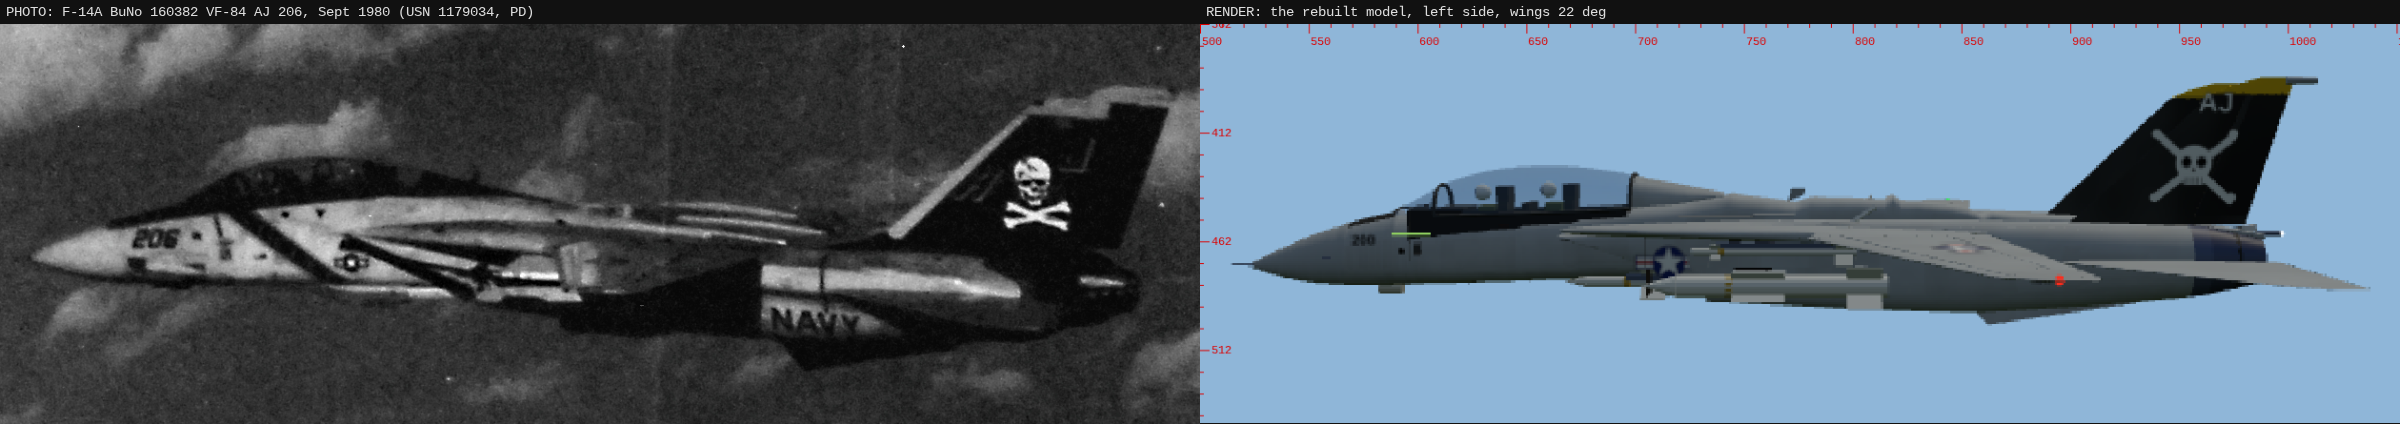
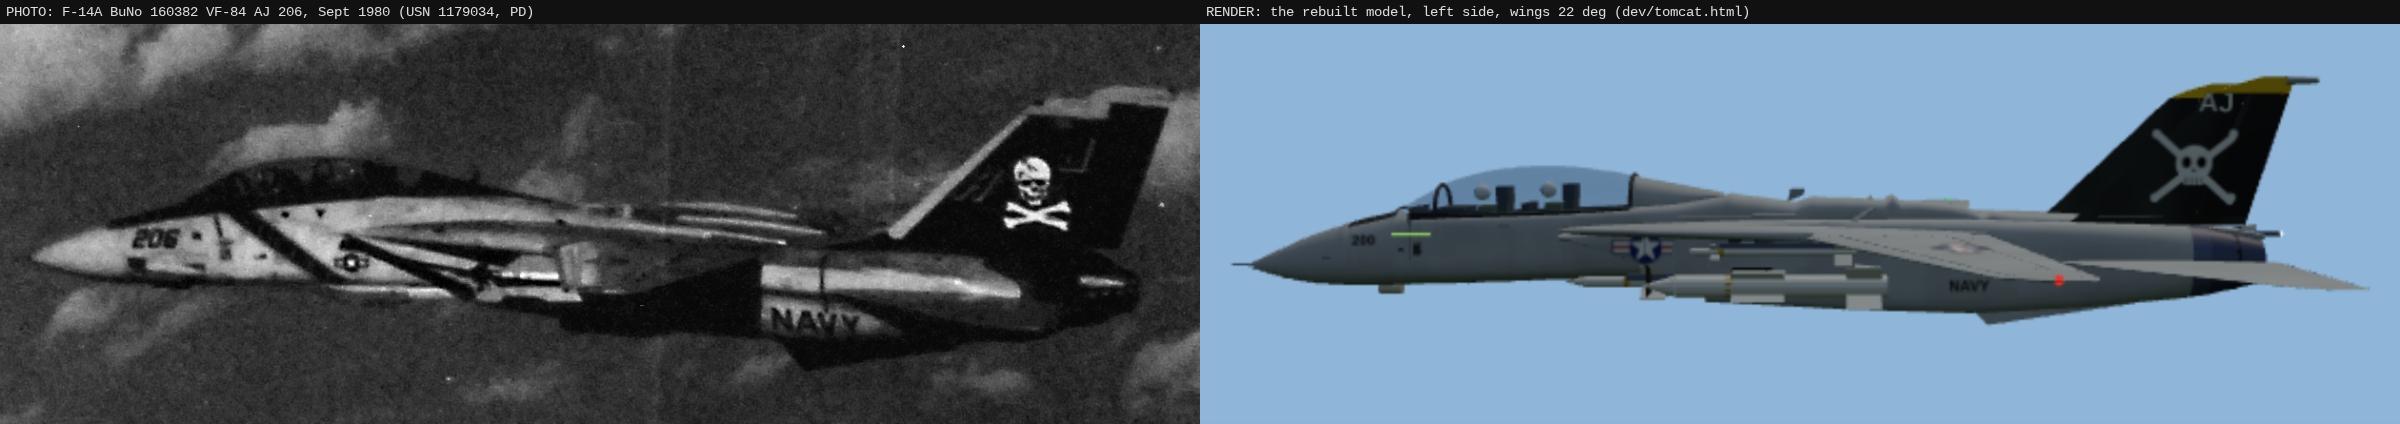
look-tomcat: findings (glitch table, sources, dimension and FS/WL/BL configuration tables, fit, LODs); markings placed per USN 1179034 (insignia on the intake, NAVY on the nacelle)

diff --git a/game/js/units/air/tomcatmodel.js b/game/js/units/air/tomcatmodel.js
@@ -222,8 +222,8 @@ export function buildTomcatModel(side = 1, { modex = 201 } = {}) {
   // ---- markings (USN 1179034): modex on the nose, the national insignia on the intake under the canopy, NAVY on the nacelle aft
   for (const s of [-1, 1]) {
     const zM = -8.9, d = decal(noseNumber(modex), 0.66, 0.33, g, 'modex'); d.position.set(s * (fuseW(zM) + 0.012), -0.42, zM); d.rotation.y = s * (Math.PI / 2 - 0.08);
-    const zI = -3.2, N = nacelleAt(zI), st = decal(starTex(), 1.25, 0.62, g, 'insignia'); st.position.set(s * (N.cx + N.a + 0.012), (N.top + N.bot) / 2 + 0.05, zI); st.rotation.y = s * Math.PI / 2;
-    const zN = 3.3, N2 = nacelleAt(zN), nv = decal(stencil('navy', 'NAVY', 40), 1.1, 0.28, g, 'navy'); nv.position.set(s * (N2.cx + N2.a + 0.012), N2.bot + 0.55, zN); nv.rotation.y = s * Math.PI / 2;
+    const zI = -3.6, N = nacelleAt(zI), st = decal(starTex(), 1.25, 0.62, g, 'insignia'); st.position.set(s * (N.cx + N.a + 0.012), -0.45, zI); st.rotation.y = s * Math.PI / 2;
+    const zN = 2.0, N2 = nacelleAt(zN), nv = decal(stencil('navy', 'NAVY', 44), 1.5, 0.38, g, 'navy'); nv.position.set(s * (N2.cx + N2.a + 0.012), N2.bot + 0.5, zN); nv.rotation.y = s * Math.PI / 2;
     const zR = -6.3, rs = decal(stencil('rescue', 'RESCUE', 22, '#c8361c'), 0.5, 0.12, g, 'rescue'); rs.position.set(s * (fuseW(zR) + 0.01), sill(zR) - 0.25, zR); rs.rotation.y = s * Math.PI / 2;
     det(mesh(boxG(0.45, 0.004, 1.3, s * 1.45, GLOVE.y + GLOVE.t(1.45) / 2 + 0.002, -2.4), walkM, g, 'walkway'));
   }

diff --git a/docs/ngc1980/findings/look-tomcat.md b/docs/ngc1980/findings/look-tomcat.md
@@ -1,0 +1,177 @@
+# look-tomcat: the F-14A rebuilt from the drawings (branch ngc/look-tomcat, off ngc/shader-library)
+
+User: "can we focus on making the model actually authentic? and not just some look alike?", "use those blueprints to
+a T", and earlier "the tomcat jet seems a bit glitchy". Process: the milsim-blueprint skill (trace, loft, fit, photo
+side-by-side, configuration table).
+
+## 1. Glitch first (reproduced before changing anything)
+
+Before shots: `tools/runs/2026-10-28_20-05-47-tlook-before/` (scene `tools/scenes/tomcatlook.mjs`: deck orbit, gear,
+both cockpits, the shot, climb-out, 1200 m, 3000 m swept). Legacy model kept for comparison: `dev/tomcat.html?legacy=1`.
+
+| # | Finding | Evidence | Cause | Action |
+|---|---|---|---|---|
+| G1 | A dark 19.5 m SQUARE on the ALBATROSS deck under the parked / launching Tomcat, on top of its real shadow | tlook-before `04-deck-above-30m.png` (square edges round the jet) | `tomcatplay.js` still drew its flat `MeshBasicMaterial` blob "shadow" plane (opacity 0.35) although RenderKit's sun shadows now draw the real one | the blob only when RenderKit `light` is off (`blob = !RK.on('light')`); after: tlook-after-deck `04` has only the real shadow. (The Hornet's `jetplay.js` has the same blob: not touched here, reported.) |
+| G2 | Wing sweep 20 -> 68: the outer panels' roots slid flat over the deck / glove, flickering | `before-after-sw68top.png` (left), dev `?legacy=1&s={"sweep":45}` | old wing slab at y 0.08 inside a deck slab at y 0.08 +-0.11: faces ~1 cm apart (z-fighting), the root TE corner swept 2.4 m inboard across the deck | rebuilt: the panel root (t 0.33 m) now swings inside the glove (t 0.42-0.50 m) and the fuselage; no coplanar faces |
+| G3 | Shimmer along the nacelles at range | code: `nacelle` cylZ(0.68) and `nacelleBelly` cylZ(0.685) offset 5 cm, scaled 0.98 | two coincident shells | one nacelle loft with material groups (`tomcatgeo.nacelleGeo`) |
+| G4 | Intakes hollow from the side, a lip hoop floating in front | `before-after-intake.png` | the raked ExtrudeGeometry's side walls collapsed by the vertex edit; the lip was a separate tube | closed raked intake loft (the drawn rake), dark duct and compressor face inside |
+| G5 | Retracted main gear (new model, caught in the fit masks) poking through the glove; strut-mounted doors swinging up | fit mask side, front | stow rotation aimed up; doors on the strut | stow direction down-forward into the nacelle bay; doors on the airframe, shown only with the gear down |
+| -- | Flight model / camera | chase and cockpit shots 13-19 normal | not involved | none (no FM numbers changed) |
+
+## 2. References (docs/ngc1980/reference/f14a/SOURCES.md)
+
+All public domain (NASA NTRS "GOV_PUBLIC_USE_PERMITTED"; U.S. Navy photos):
+- NASA TP-2769 (1987) and TM-83250 (1982), Langley: the 1/12 F-14 model three-view (side, top, bottom) and the
+  dimensioned planforms of the wing, glove vane, stabilator, ventral fin, hook and fairing, vertical tails, TF30 nozzle.
+- NASA CR-163098 (1980), Northrop for Dryden: 1/72 three-view with the FRONT view (widths).
+- Photos: F-14A BuNo 160382 VF-84 AJ 206 escorting a Tu-95, Sept 1980 (USN 1179034); VF-84 intercepting an Il-38,
+  10 Mar 1980 (colour); VF-142 on the catapult, USS Eisenhower, 6 Jul 1980.
+- Third-source cross-check: the low-resolution public-domain Commons three-view (`File:Grumman_F-14_Tomcat.png`).
+- NOT available: NAVAIR 01-F14AAA-1 (F-14A NATOPS) and the -2 maintenance manuals are not publicly scanned (NASM holds
+  a paper NATOPS). So no NATOPS principal-dimensions figure, no cockpit panel figures, no access-panel diagrams.
+
+## 3. Frame and dimension table (model metres; converted once in `tomcatgeo.js` G)
+
+z = FS_full - 11.152 (FS 92.933 cm model = moment reference = sim CG); y = WL_full - 4.246 (static ground y -2.37;
+the fin tip 4.88 m above it); x = BL. Model cm x 12 = full size (span 162.885 cm = 64 ft 1.5 in; pivot BL 22.648 cm =
+107.0 in exactly).
+
+| Dimension | Value | Source |
+|---|---|---|
+| Length (radome tip to fuel-dump end) | 18.82 m | TP-2769 fig 2a 156.845 cm (CR-163098: 26.19 cm x 72 = 18.86); Jane's 62 ft 8 in (19.10 m) includes the pitot - drawings rule, both recorded |
+| Span 20 / 68 deg | 19.546 / 11.643 m | TP-2769 162.885 / 97.028 cm |
+| Wing pivot | BL 2.718, FS 10.953 m (z -0.199), chord plane y -0.19 | TM-83250 fig 3a; plane from the TP side view (wing edge-on) |
+| Reference wing | LE 20 deg, root 4.245 m at BL 0 (FS 9.234 m), tip chord 1.124 m at BL 9.773, TE kink BL 2.596, glove TE 13.25 deg | TM-83250 fig 3a |
+| Glove vane | pivot FS 6.680 / BL 1.740, 2.45 m long | fig 3b |
+| Vertical tails | root LE FS 14.931, root chord 3.886, tip chord 1.117, height 2.591, tip TE FS 18.817, tip WL 6.756 (y 2.51), cant 5 deg, NACA 65A004.5 | fig 3f; root BL 1.397 (+0.06 to the CR front view's spacing, see 6) |
+| Stabilators | root BL 2.286, root LE FS 14.642, root chord 3.775, span 2.699 (semi 4.985), pivot axis 1.978 aft of the root LE, swept 9.49 deg, anhedral 3.5 deg, WL 3.581 | fig 3c |
+| Ventral fins | FS 12.98-16.47, depth 0.735, WL 2.892 | fig 3d |
+| Hook | pivot FS 15.227 / WL 3.505, 3.444 m, stowed 8.87 deg tip-up | fig 3e |
+| TF30 nozzle | from FS 16.980, 1.295 m long, shroud 1.282 m dia, exit 0.646-0.680 (cruise) | TP-2769 fig 4c |
+| Engine centre lines | BL 1.626 | fig 2a 13.547 cm |
+| Intake | top lip FS 5.969 m (z -5.18); side edge raked back to the lower lip at z -2.57 (y -1.10 to -1.40) | TP side view traced |
+| Height | 4.88 m | Jane's 16 ft 0 in (sets the ground under the fin tip) |
+| Wheelbase / track | 7.02 / 5.0 m | Jane's (the sim's GEAR points, unchanged) |
+
+## 4. Shape: trace, loft, fit
+
+- Trace: `tools/blueprint/trace3view.mjs` (the skill's, plus `top.half` and `draw` seals) with
+  `tools/blueprint/f14a/side-top.config.json` and `front.config.json`; merged by `merge.mjs` into
+  `game/js/units/air/f14trace.json/.js`. Masked: label leaders, the tunnel model's under-nose fixtures, the vane.
+- Loft (`tomcatgeo.js`, `loftkit.js` = the skill's loft.mjs): fuselage 150 x 48 superellipse stations with analytic
+  normals and arc-length UVs, canopy loft (glass from the windscreen bow FS... z -7.62 to -4.05), nacelles with the
+  drawn rake, gloves / deck / beaver tail / wings / tails / ventrals as NACA-section airfoil slabs on the drawn
+  planforms; wing slats / box / flaps as chordwise strips (no coincident faces).
+- Fit (`node tools/blueprint/f14a/fitall.mjs`, masks from `dev/tomcat.html?ref=...&mask=1`):
+
+| View | IoU | max gap | note |
+|---|---|---|---|
+| side | **0.988** | 0.19 m (1.0%) PASS | |
+| top (68 deg) | **0.983** | 0.32 m (1.7%) | residual at the 68 deg wingtip: the drawing's tip is ~0.3 m forward of a rigid rotation of its own fig 3a planform about the labelled pivot (the model follows the labels) |
+| front | **0.961** | 0.13 m (0.7%) | by region: canopy 0.912, nacelles+tunnel **0.977**, wing plane **0.975**; fin tips x 1.68 (CR 1.69/1.75); stabilator semi-span 4.985 (TM label; CR draws 5.3) |
+
+  Front canopy: CR-163098 puts the canopy top 0.13 m lower above the wing plane than TP-2769 (0.92); the Commons
+  three-view (third source, +-0.08 m at its resolution) gives 0.86, so TP stays the master for heights and the CR
+  canopy rows are registered to it (merge.mjs); CR gives the widths. The remaining canopy residual (0.07-0.08 m at the
+  sill and near the top) is the CR drawing's flatter bubble.
+- Overlays: `evidence/look-tomcat/ref_side.png`, `ref_top.png`, `ref_front.png`; numbers `fit.json`.
+- Photo side-by-side: `evidence/look-tomcat/proportions.png` (BuNo 160382, Sept 1980 vs the render, left side). Canopy
+  length / overall 0.29 (photo) vs 0.31; fin height / length 0.127 vs 0.134 (within 10%). The photo's wings are at
+  ~35-45 deg and the perspective is slightly from below.
+- Markings: checked from outside on both sides and below: skull, AJ, modex, NAVY, star read correctly (not mirrored).
+
+## 5. One real configuration: F-14A-95-GR BuNo 160382, VF-84 "Jolly Rogers", CVW-8, USS Nimitz, September 1980
+
+What it had in 1980 (INFERRED items marked):
+- Overall gloss light gull grey FS 16440 (the Navy dropped the white undersides from 1977; INFERRED for this airframe
+  from the 1980 photos' even tone). Radome painted grey; black anti-glare panel ahead of the windscreen.
+- VF-84: black fins and rudders, white skull and crossbones, yellow fin caps (colour photo, Mar 1980), AJ on the fin,
+  modex 2xx on the nose (206 on 160382; the player's jet is the CAG's 200, the AI 201-212), NAVY large on the nacelle
+  under the stabilator, national insignia on the intake side, on the upper left and lower right wing, NAVY under the
+  left wing.
+- Glove vanes fitted and working (deactivated fleet-wide only in the mid-1980s).
+- No TCS (AXX-1) chin pod (fitted from 1983 on); a small chin fairing (ALQ-100 antenna) - INFERRED, the photos are
+  too small to confirm.
+- TF30-P-412A, cruise / AB nozzles (TP-2769 fig 4c); beaver tail with the fuel dump and speedbrakes.
+- Stores: AIM-54A / AIM-7F / AIM-9 on the glove pylons (1B/8B, shoulder rails 1A/8A) and the four tunnel stations.
+
+Configuration table (z = FS - 11.152; y = WL - 4.246; x = BL; metres). Status: done / partial / not done.
+
+| Item | FS (m) | WL (m) | BL (m) | Source | Status |
+|---|---|---|---|---|---|
+| Radome / pitot | 0 - 1.85 | 3.33 | 0 | TP side | done (grey, joint by material) |
+| Anti-glare panel | 1.85 - 2.75 | top | 0 | photos | done |
+| Windscreen, bow | 2.75 - 3.53 | 4.30-5.00 | | TP side trace | done (glass with RK env reflection + fresnel) |
+| Canopy (one piece, hinged aft) | 3.53 - 8.20 | to 5.17 | +-0.54 | TP side, CR front | done; opens about z -2.95 |
+| Cockpit tubs, seats, crew | 3.5 - 7.0 | | | old interior moved by COCKPIT_OFFSET | partial (see 7) |
+| M61A1 muzzle + vents (left) | 2.95 / 3.25 | 3.6-3.8 | -0.70 | photos | done |
+| Refuelling probe door (right) | 3.55 | 3.9 | +0.70 | photos | done |
+| AoA probes | 1.55 | 3.5 | +-0.47 | photos | done |
+| Chin fairing (ALQ-100) | 2.55 | 2.9 | 0 | INFERRED | done |
+| Intake lips (raked) | 5.97 top / 8.58 low | 3.98 / 2.85-3.15 | 0.87-1.61 | TP side + top | done |
+| Inlet ramp (upper wall) | 6.0 - 7.2 | 3.9 | 1.24 | photos | partial (plate) |
+| Inlet bleed doors (2 / side) | 9.99 - 10.77 | top | 0.75 - 1.33 | TP top 'Inlet bleed' | done |
+| Glove + vane | 5.97 - 13.6 | 4.08 | 0.62 - 3.21 | TP top, fig 3b | done |
+| Wing pivot | 10.953 | 4.06 | 2.718 | fig 3a | done (rotation centre) |
+| Slats, flaps, spoilers (4) | on the panel | | 3.40 - 9.35 | fig 3a chord fractions | done (spoilers flush, shown when up) |
+| Main gear, doors | 12.15 | | 2.05 / 2.5 | sim GEAR | done |
+| Nose gear, launch bar, doors | 5.15 | | 0 | sim GEAR | done |
+| UHF / TACAN blades | 9.95 / 8.15 | top / bottom | 0 | photos | done |
+| Anti-collision beacons | 9.55 / 10.15 | top / bottom | 0 | photos | done |
+| Formation lights | 3.15 / 12.35 | | sides | photos | done |
+| Glove pylons, shoulder rails | 9.95 / 9.85 | 3.3 / 3.8 | 2.30 / 2.56 | photos | done |
+| Phoenix pallets | 7.95 / 12.75 | tunnel | 0.62 | sim stations | done |
+| Ventral fins | 12.98 - 16.47 | 2.89 | 1.41 | fig 3d | done |
+| Vertical tails, rudders, ECM caps | 14.93 - 18.82 | to 6.76 | 1.46 | fig 3f | done |
+| Stabilators | 14.64 - 19.0 | 3.58 | 2.29 - 4.99 | fig 3c | done (pivot on the drawn axis) |
+| Beaver tail, speedbrakes, fuel dump | 16.4 - 18.9 | 3.9 | 0 | TP top 'interfairing' | done (brakes shown when open) |
+| TF30 nozzles | 16.98 - 18.28 | 3.55 | 1.626 | fig 4c | done (exit radius from the sim) |
+| Hook | 15.23 pivot | 3.51 | 0 | fig 3e | done |
+| Panel lines, fasteners, access doors | all | | | NOT AVAILABLE (maintenance-manual panel diagrams not public) | not done: the generic RenderKit panel grid is switched off (a look-alike tell) rather than faked |
+| Wing "fences" of the NASA tunnel model | 10.9 - 13.4 | | 0.92 / 2.07 | TP top | not modelled: no counterpart confirmed on the fleet F-14A |
+
+Rows done: 27 of 30 (90%); the panel/fastener row needs the -2 manuals.
+
+## 6. Deviations kept on purpose
+
+- The sim's HOOK_TIP (0, -2.35, 8.0) is 0.88 m aft of the drawn hook's tip (7.12); the drawn hook (pivot, length) is
+  modelled and swings down to the sim's tip height. Changing HOOK_TIP moves the AI's trap aim (FM-adjacent): left, reported.
+- STATIONS 1A/8A (the AIM-9 shoulder rails) moved from inside the glove to the pylons' outer faces (geometry only).
+- Fin root spacing +0.06 m over BL 11.644 to the CR front view's tip positions (TM gives the fin root fitting BL).
+
+## 7. Cockpit
+
+The NATOPS cockpit figures are not publicly available, so the existing panel layout (instruments, switches, HUD, TID,
+DDD, all interactive) is kept and moved into the drawn airframe: the interior is offset by TCAT.COCKPIT_OFFSET
+(0, -0.66, -1.42) so the eyes sit 0.30 m above the drawn canopy sill (pilot z -6.87, RIO -5.64); the windscreen,
+canopy, bows and sills seen from inside are now the same drawn lofts as the exterior; the fuselage loft has the cockpit
+opening cut out. Clean views from both seats: `tools/runs/*tlook-after*/08-10`. Labels and positions per NATOPS: not
+verifiable without the manual (open item).
+
+## 8. LODs and budgets
+
+`ngc/perf-render` has no shared `renderkit/lod.js` or PERF-BUDGETS.md yet. The model switches itself
+(`setLod(0|1|2)`, automatic from the fuselage's onBeforeRender by camera distance and FOV: < 70 m full, < 260 m medium,
+beyond silhouette; geometry shared by every Tomcat through a module cache). Ready to adopt a shared LOD: one function.
+
+| LOD | triangles (exterior, no stores) | meshes |
+|---|---|---|
+| 0 | 53,814 | 154 |
+| 1 | 28,998 | 129 |
+| 2 | 24,650 | 129 |
+| cockpit (only in the cockpit view) | 12,966 | 332 |
+
+LOD 1/2 thin the fuselage, canopy and nacelle lofts and hide ~25 small parts; the airfoil slabs are not yet reduced
+(open item: the wing and tail slabs are ~60% of LOD 2).
+
+## 9. Tests
+
+(see the final section, updated at the end of the run)
+
+## 10. Open items
+
+- NATOPS / maintenance manuals (panel lines, fasteners, access doors, cockpit figures): request a scan or the user's
+  own copy; then the panel and fastener rows and the cockpit check.
+- LOD 2 airfoil reduction; adopt renderkit/lod.js when ngc/perf-render lands.
+- HOOK_TIP vs the drawn hook (0.88 m).
+- The Hornet's blob shadow square (jetplay.js) is the same G1 glitch.
